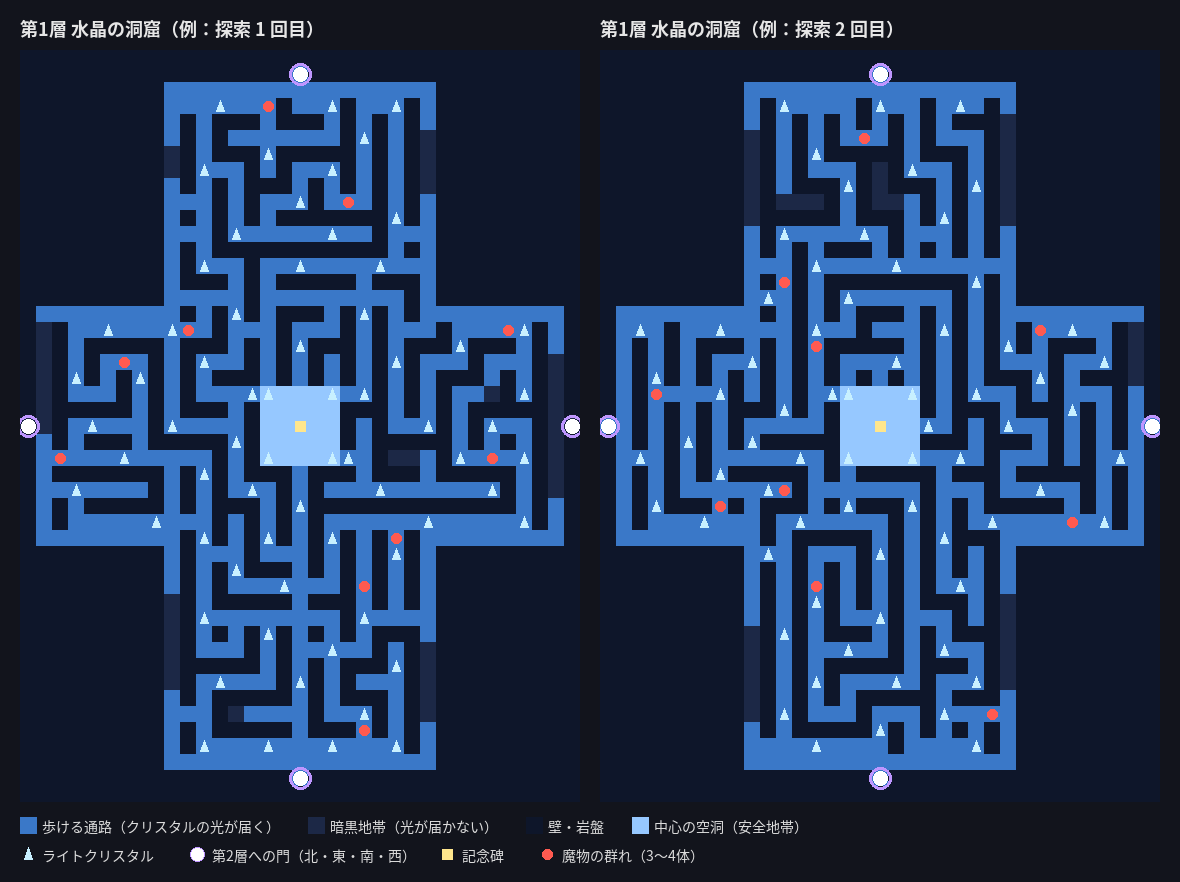
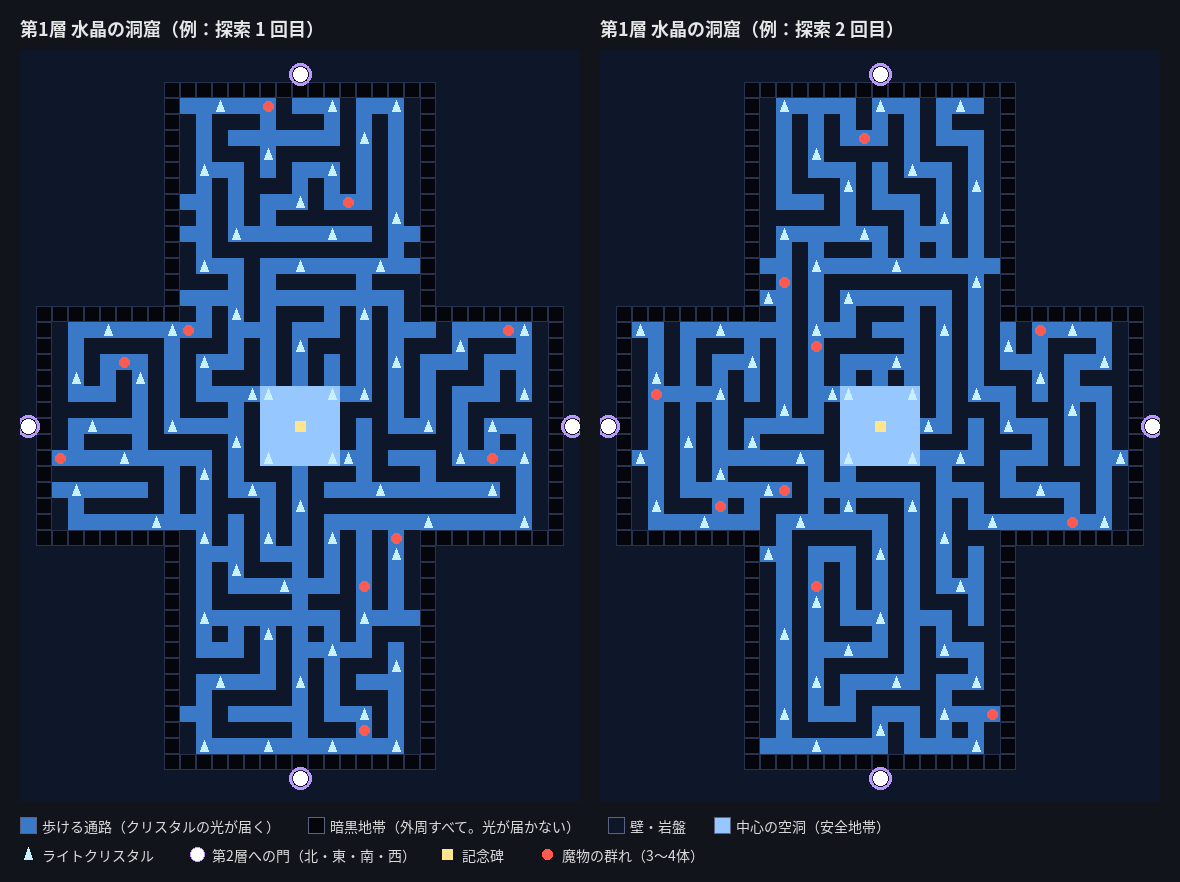
第1層の外周をすべて暗黒地帯に（クリスタルの光が外周に漏れていた）
- 生成マップが外周の回廊と門の切れ込みを暗黒地帯（dark）として返し、そこには明るさ・見通しを与えない
- 外周にいる間は画面上部に「暗黒地帯」と表示。上から見た図も更新

Claude-Session: https://claude.ai/code/session_01HwLyv1mppAVyPDCTZWJQcS

diff --git a/web/game.js b/web/game.js
@@ -463,8 +463,12 @@ function buildFloor(floorDef, arrive = 'start', restore = null) {
   if (crystalMode) {
     crystals = floorCells.filter(([r, c]) => world.grid[r][c] === 'C');
     world.glow = crystalField(crystals, CRYSTAL_REACH);
-    glowMap = makeGlowMap(world.glow);
     world.vis = crystalField(crystals, CRYSTAL_VIEW);
+    // 暗黒地帯（外周）には光が届かない
+    if (layout.dark) for (let r = 0; r < world.rows; r++) for (let c = 0; c < world.cols; c++) {
+      if (layout.dark[r][c]) { world.glow[r][c] = 0; world.vis[r][c] = 0; }
+    }
+    glowMap = makeGlowMap(world.glow);
   }
   const tmp = new THREE.Object3D();
   const col = new THREE.Color();
@@ -1938,7 +1942,7 @@ function updateHUD() {
   const eye = runFlags(world.floor.id).witchEye ?? 0;
   const eyeHTML = world.floor.id === D.FLOOR.F3 && eye > 0 ? ` ／ <span class="eye ${eye >= D.WITCH_EYE.max ? 'max' : ''}">魔女の目 ${eye}/${D.WITCH_EYE.max}</span>` : '';
   const fi = $('#field-info');
-  const html = (reg?.name ?? '') + eyeHTML;
+  const html = (world.inDark ? '<span class="eye">暗黒地帯</span>' : (reg?.name ?? '')) + eyeHTML;
   if (fi.innerHTML !== html) fi.innerHTML = html;
   const nStones = stoneCount(world.run.stones);
   $('#stones').textContent = nStones ? `${nStones}（最高 ${bestGrade(world.run.stones)}等級）` : '0';
@@ -2442,6 +2446,7 @@ window.game = {
   setCityHour(h) { save.hour = h; },
   setElapsed(h) { world.time.hours = world.time.startHours + h; },   // 突入からの経過時間を設定する
   closeHours() { return closeHoursOf(world.floor); },
+  fogFar() { return scene.fog?.far; },
   get landing() { return { dark: world.landedInDark, vis: visibilityAt(player.pos), glow: world.glow?.[Math.round(player.pos.z / T)]?.[Math.round(player.pos.x / T)] }; },
   portals() { return world.portals; },
   rebuild(id, arrive = 'start') { buildFloor(floorConfig(id), arrive); },

diff --git a/web/mapgen.js b/web/mapgen.js
@@ -110,7 +110,7 @@ function scatter(g, rnd, count, minGap, ok) {
 }
 
 // ====================================================================== 第1層：水晶の洞窟
-// 十字形の洞窟。外周の 1 マス幅の回廊は暗黒地帯（クリスタルがない）。内側は急カーブの多い迷路。
+// 十字形の洞窟。外周の 1 マス幅の回廊はすべて暗黒地帯（dark。クリスタルの光が届かない）。内側は急カーブの多い迷路。
 // 中央の空洞と記念碑の周りは安全地帯（魔物が入ってこない）。東西南北の腕の先に第2層への門（1 北 / 2 東 / 3 南 / 4 西）
 export function crystalCave(seed) {
   const rnd = seededRandom(seed);
@@ -164,7 +164,11 @@ export function crystalCave(seed) {
   for (const reg of ['north', 'east', 'south', 'west', 'center']) {
     for (const [r, c] of scatter(g, rnd, 2, 5, (r, c) => regions[r][c] === reg && isInner(r, c) && far(r, c))) g[r][c] = 'm';
   }
-  return { map: toRows(g), regions, arrivals: {}, prevCells: {} };
+  // 外周の回廊と門の切れ込みはすべて暗黒地帯（クリスタルの光が届かない）
+  const dark = makeGrid(H, W, false);
+  for (let r = 0; r < H; r++) for (let c = 0; c < W; c++) if (ring.has(r + ',' + c) && g[r][c] !== '#') dark[r][c] = true;
+  for (const [r, c] of Object.values(gates)) dark[r][c] = true;
+  return { map: toRows(g), regions, dark, arrivals: {}, prevCells: {} };
 }
 
 // ====================================================================== 第2層の 4 つのエリア
